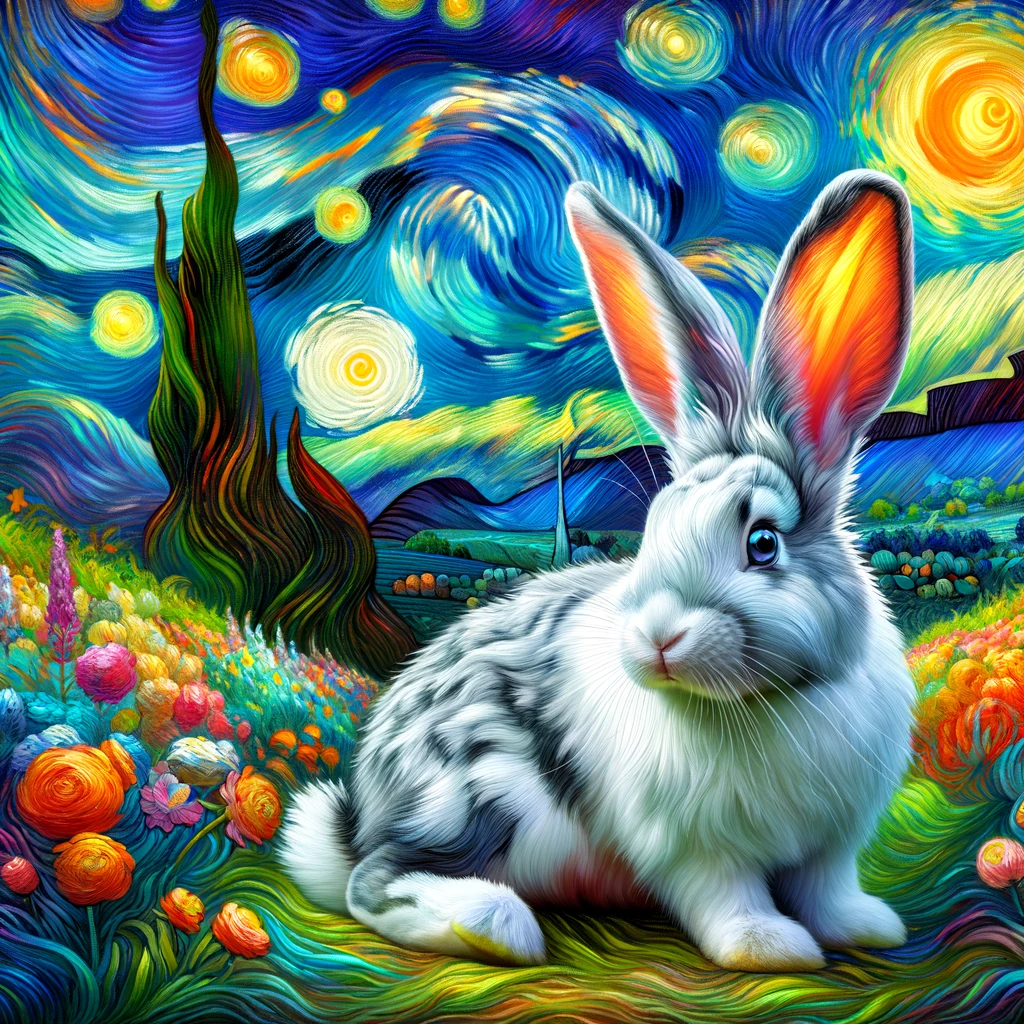
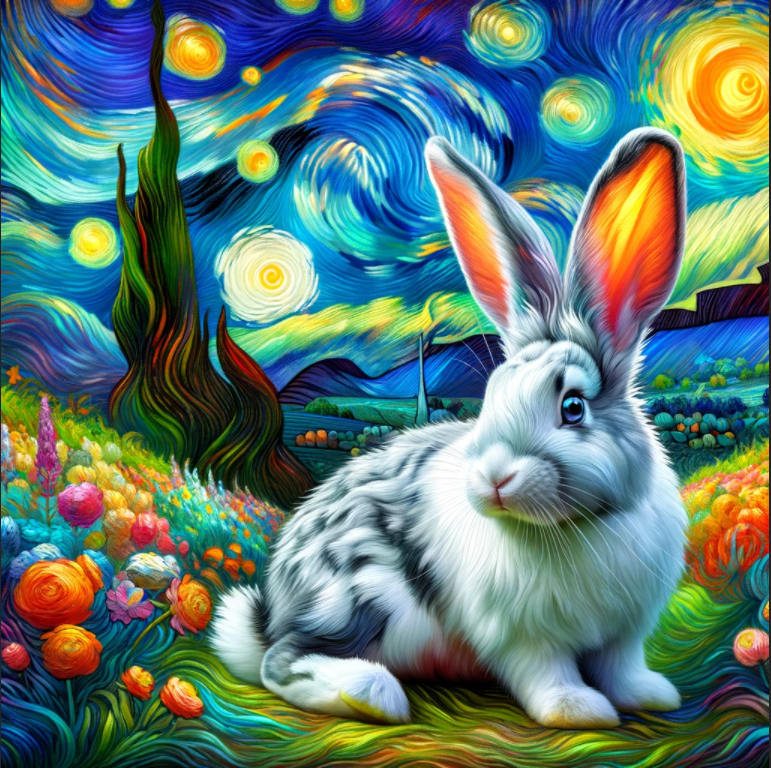
optimized land

diff --git a/resources/views/landing.blade.php b/resources/views/landing.blade.php
@@ -57,13 +57,13 @@
         .background {
             width: 45%;
             display: grid;
-            background: url('{{ asset("assets/img/future-rabbit.png") }}') no-repeat;
+            background: url('{{ asset("assets/img/future-rabbit.webp") }}') no-repeat;
             background-size: cover;
         }
 
         .right-side {
             padding: 20px;
-            backdrop-filter: blur(15px);
+            backdrop-filter: blur(10px);
             background-attachment: #FFFFFF;
             display: grid;
             align-content: space-between;
